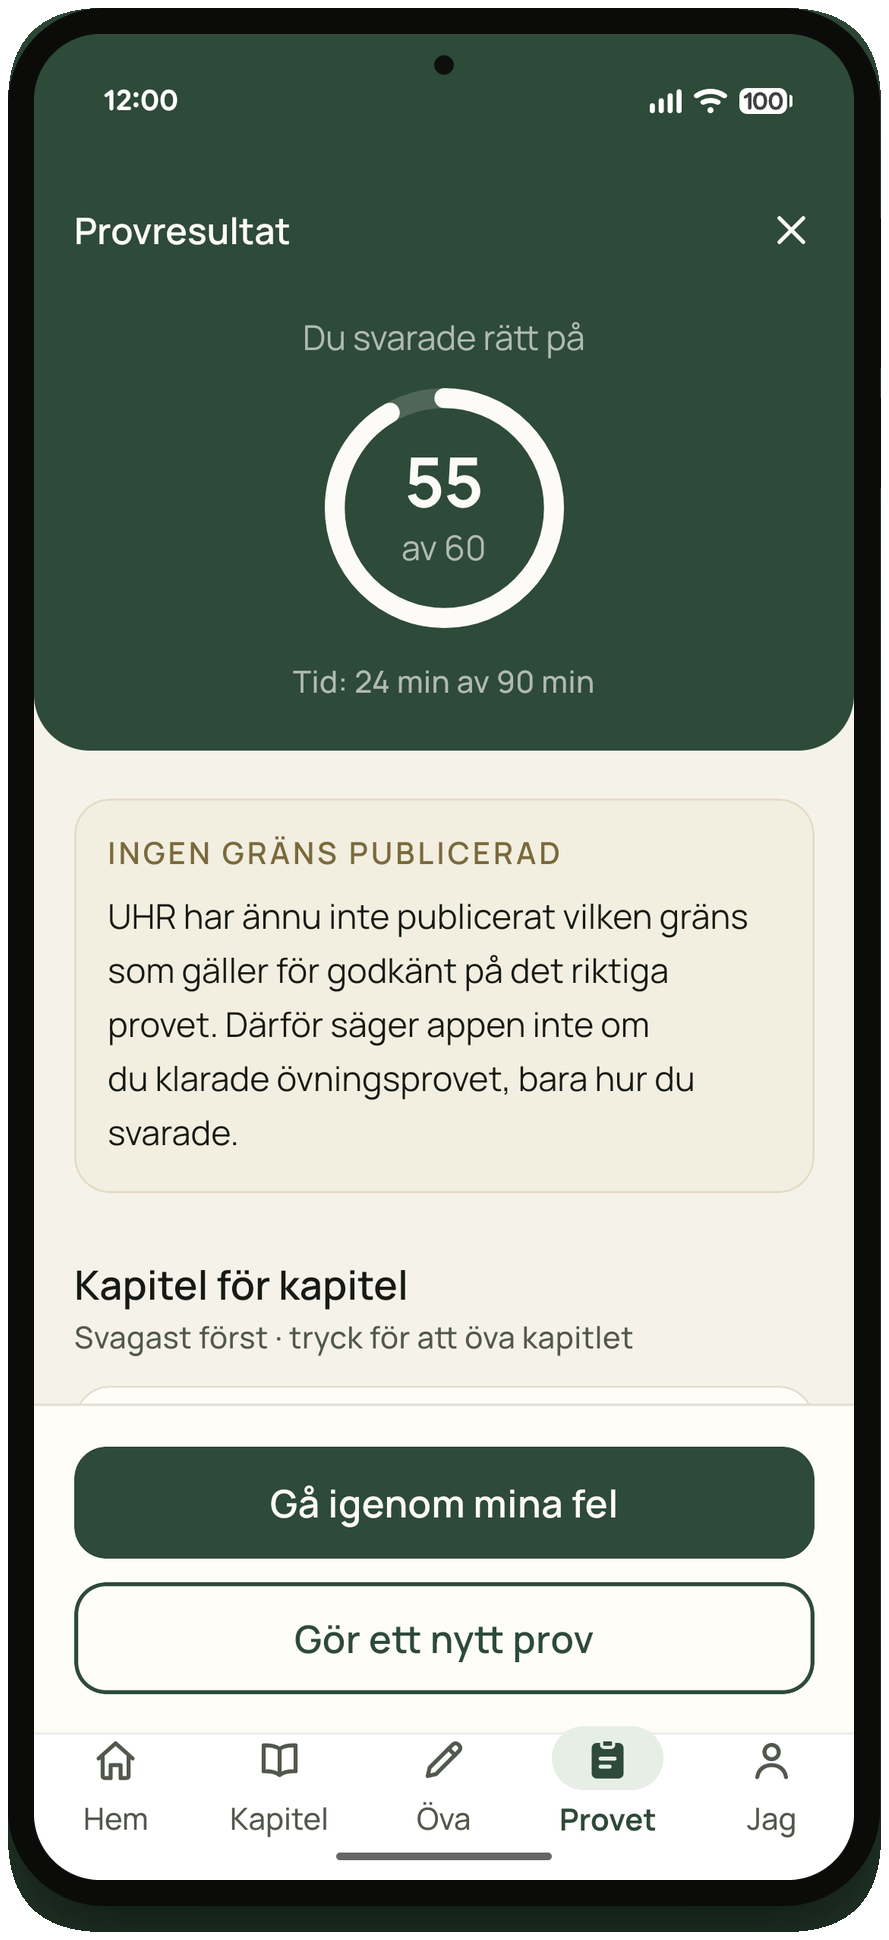
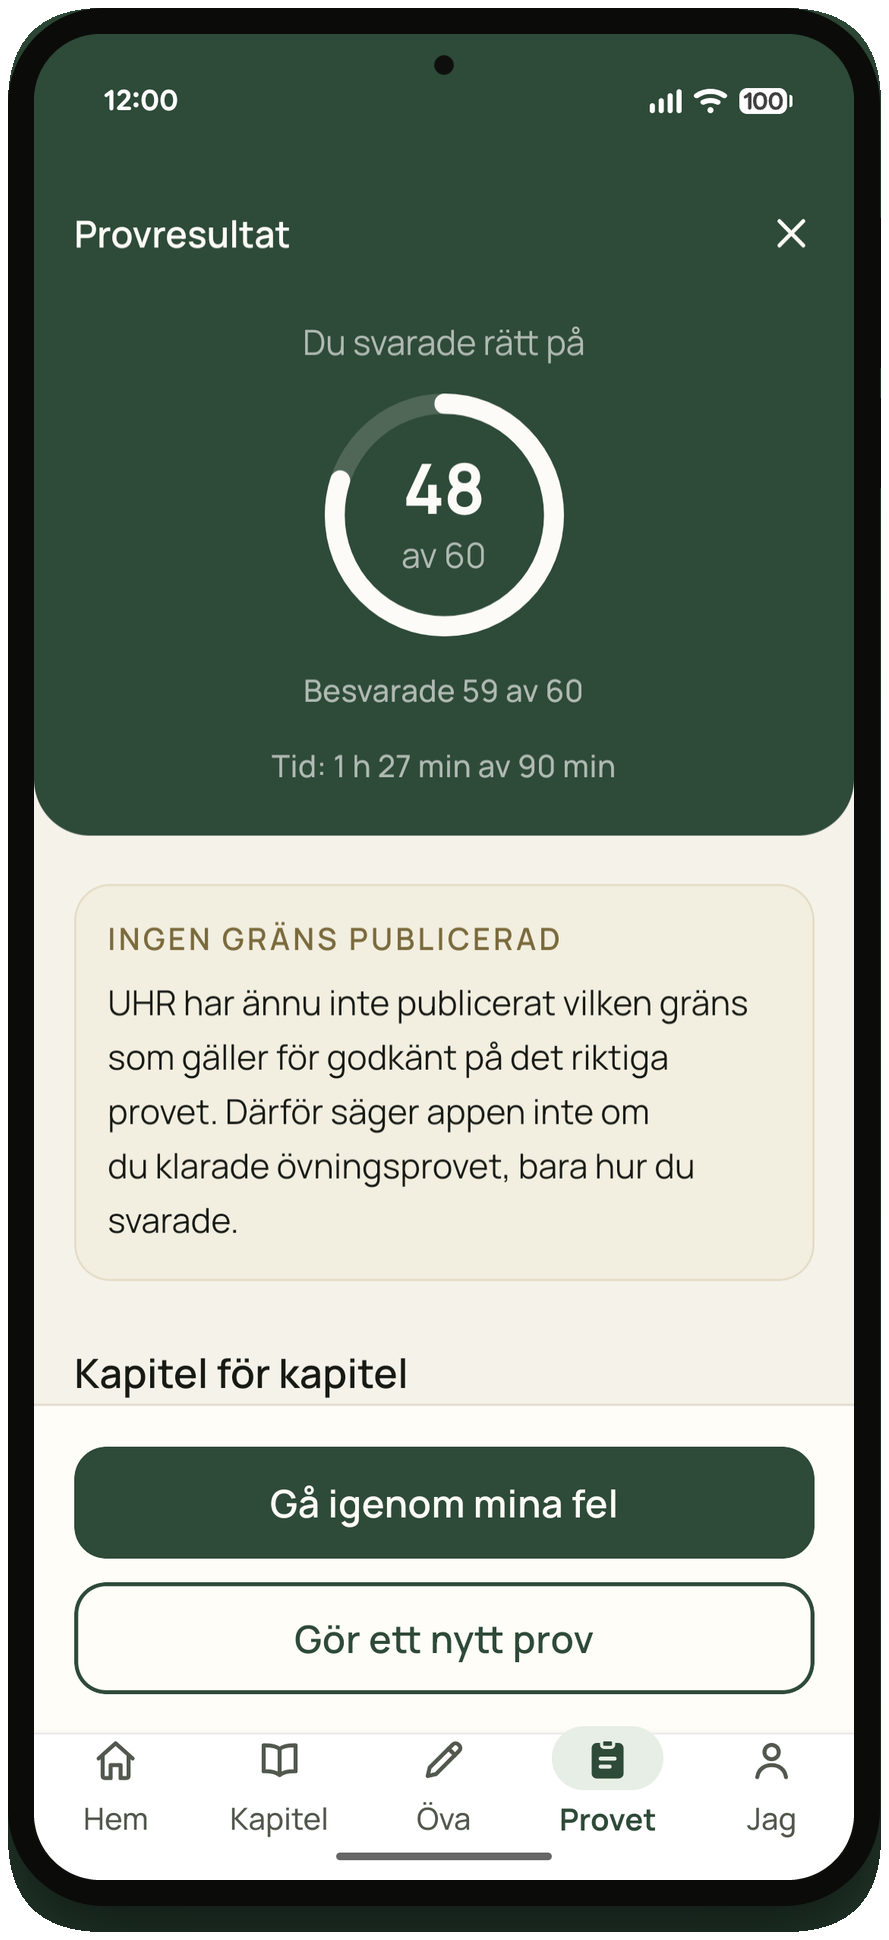
Update hero phone image and alt texts to build 72 result screen

diff --git a/index.html b/index.html
@@ -1086,7 +1086,7 @@ footer { background: var(--green-deep); color: rgba(245,243,238,0.6); padding: 5
     </div>
     <div class="hero-visual">
       <div class="hero-phone">
-        <img src="assets/phone-provresultat.png" alt="Mebbo-appen visar provresultat kapitel för kapitel, med noteringen att UHR ännu inte publicerat någon gräns för godkänt." width="889" height="1940">
+        <img src="assets/phone-provresultat.png" alt="Mebbo-appen visar provresultat: 48 av 60 rätt, tid och en ruta som förklarar att UHR ännu inte publicerat någon gräns för godkänt." width="889" height="1940">
       </div>
     </div>
   </div>

diff --git a/en/index.html b/en/index.html
@@ -490,7 +490,7 @@ footer { background: var(--green-deep); color: rgba(245,243,238,0.6); padding: 4
     </div>
     <div class="hero-visual">
       <div class="hero-phone">
-        <img src="../assets/phone-provresultat.png" alt="Mebbo app showing test results chapter by chapter." width="889" height="1940">
+        <img src="../assets/phone-provresultat.png" alt="Mebbo app showing a practice test result of 48 out of 60, with a note that UHR has not published a pass limit." width="889" height="1940">
       </div>
     </div>
   </div>
